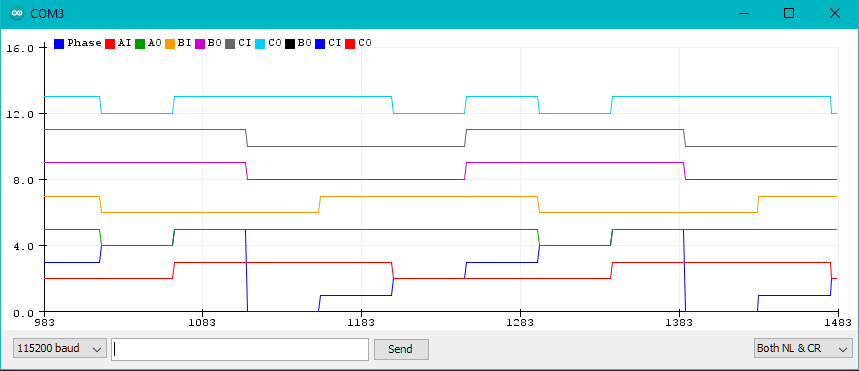
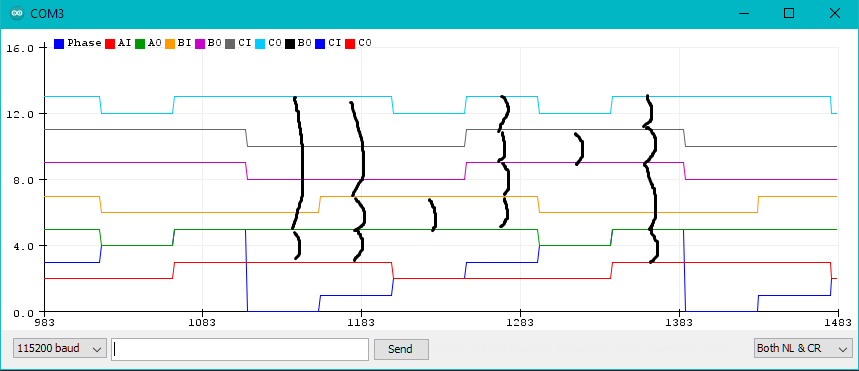
Benzene Rectifier
Benzener Rectifier

diff --git a/BenzeneRectifier/readme.md b/BenzeneRectifier/readme.md
@@ -33,6 +33,6 @@ Save the screenshot and compare the data for different experiments.
 ### Benzener First Boot Annotations
 ![RBoot1D](/BenzeneRectifier/BenzenerRectifierFirstBoot_Labelled.png)
 
-***+15x Bistable Non-Volatile Magnetic Plate Through-Hole Reed Relay***
-***+30x Directional Diode Charge Swing Sign Detector Gate***
+***+15x Bistable Non-Volatile Magnetic Plate Through-Hole Reed Relay*** \
+***+30x Directional Diode Charge Swing Sign Detector Gate*** \
 ***=15x Memristor Mod Matrix for Benzene Hexagon***
